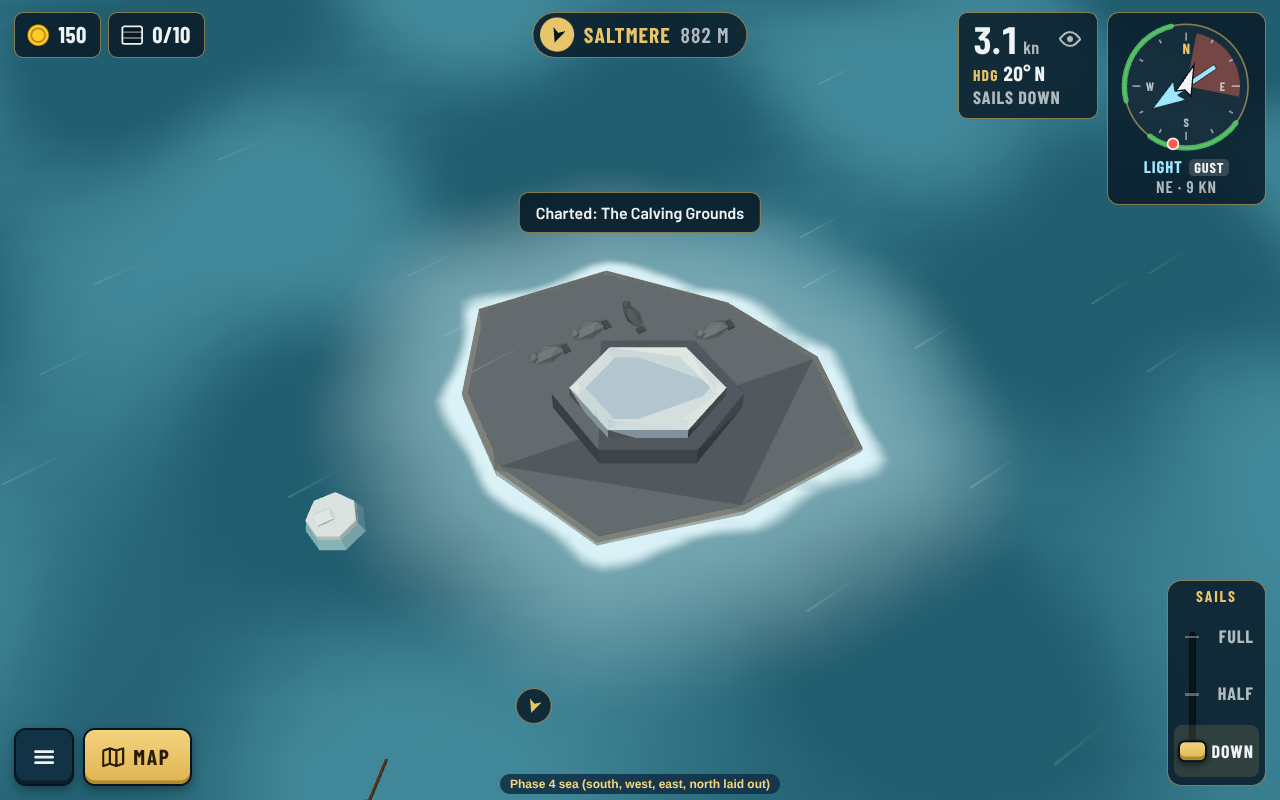
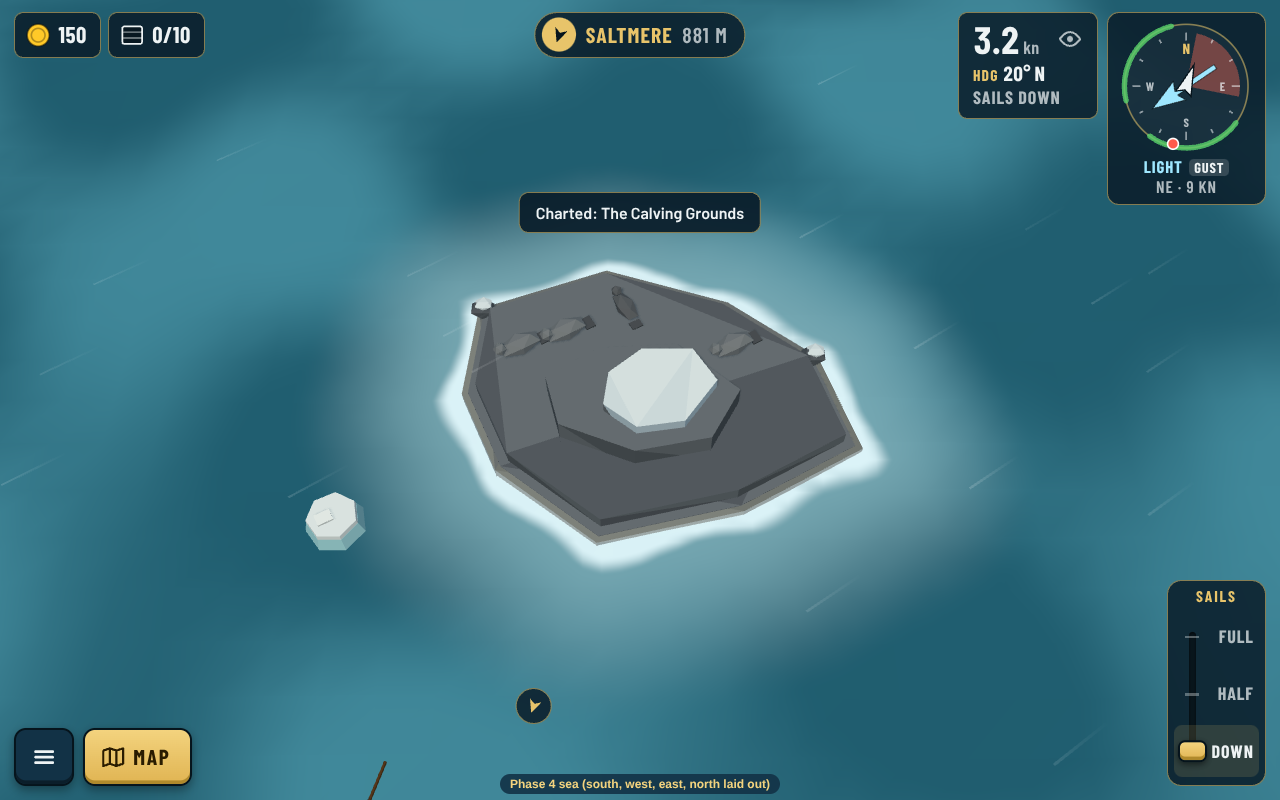
Selkie Rock and Old Blue: art director's fixes
Selkie Rock: two slate steps, irregular snow cap, loose snow, shore boulders,
bigger seals. Old Blue: new bergice ground (blue low faces, white above), thin
waterline ring.

Claude-Session: https://claude.ai/code/session_0191yuTztebov6SKwiGs9VGx

diff --git a/tests/island-files.test.ts b/tests/island-files.test.ts
@@ -163,6 +163,6 @@ const GOLDEN: Record<string, string[]> = {
   'snowberry-isle': ['238:30aaab39', '408:a4f7aef7', '437:cc204c39', '437:cc204c39'],
   whitefell: Array(4).fill('17:90d719e7'),
   // The north's corner pieces (decision 0180).
-  'selkie-rock': Array(4).fill('20:4f95ee28'),
-  'old-blue': Array(4).fill('8:ca7d4397'),
+  'selkie-rock': Array(4).fill('26:6a1e73ff'),
+  'old-blue': Array(4).fill('8:57804bba'),
 };

diff --git a/docs/reviews/north-sea/README.md b/docs/reviews/north-sea/README.md
@@ -19,8 +19,8 @@ Screenshots from the real game (`npm run shots -- --list src/final.json`) and th
 The density plan ([0180](../../decisions/0180-even-density-across-the-four-seas.md)) asked for one piece or two in each north corner, named by the storyteller. Made with `bash src/mk-corners.sh` (`npm run island` and `npm run sea`), shots from `src/corners.json`:
 
 - **The Strays** (about 320°): three grounded floes, `ice` terrain, well clear of the Snowberry Pack and the cove.
-- **Selkie Rock** (about 32°): a slate skerry with a snow cap and four seals, 352 triangles.
-- **Old Blue** (about 37°): a grounded berg, an island in `ice` ground with two ice peaks, 103 triangles.
+- **Selkie Rock** (about 32°): a slate skerry in two steps with an irregular snow cap, loose snow patches, shore boulders and four seals, 468 triangles.
+- **Old Blue** (about 37°): a grounded berg, two peaks in the new `bergice` ground (palette.json: blue faces low down, white above a third of the height) on a thin waterline ring, 229 triangles.
 
 All three lie inside the north's chart areas, so its fog of war lifts as before. `npm run sea -- density`: north 3% empty water, biggest gap r142 at 3° (the open reach under the Whistle, kept on purpose), against a target of no gap over r150. Checks, routes and balance on all three levels pass.
 
